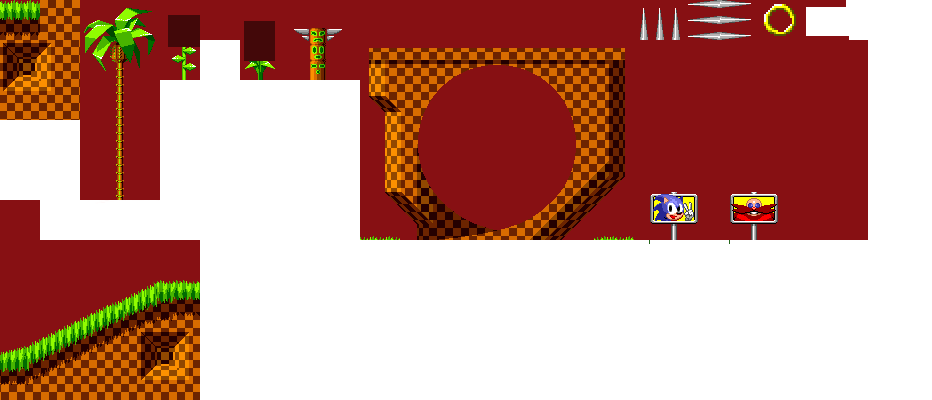
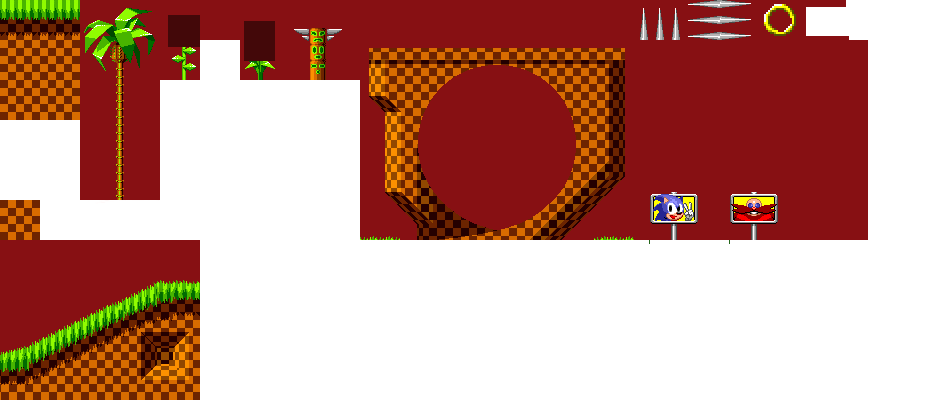
КАРТА ОТ ТИМОФЕЯ ЧЕСАКОВА

Changed region(s): [[0.0, 0.0, 0.0933, 0.3], [0.0, 0.48, 0.0622, 0.6]]

diff --git a/game.py b/game.py
@@ -506,7 +506,7 @@ class Game:
                 ending = False
                 starting = True
                 running = True
-                self.__init__(Map([1, 2, 16, 17], [20], [87, 88, 63, 64], 1), self.sonic)
+                self.__init__(Map([1, 2, 16, 17], [20], [87, 88, 63, 64], 2), self.sonic)
                 # self.left = False
                 # self.last_left = False
                 # self.right = False

diff --git a/main.py b/main.py
@@ -28,7 +28,7 @@ def load_image(name, colorkey=None):
 if __name__ == '__main__':
     camera = Camera()
     SONIC = Sonic((10, 7))
-    MAP = Map([1, 2, 16, 17], [20], [67, 134, 111, 112, 135], 1)
+    MAP = Map([1, 2, 16, 17, 18, 19, 24, 25], [20], [67, 134, 111, 112, 135], 2)
     game = Game(MAP, SONIC)
     SCREEN.fill((0, 0, 255))
     pygame.display.set_caption('Conic klassik')
